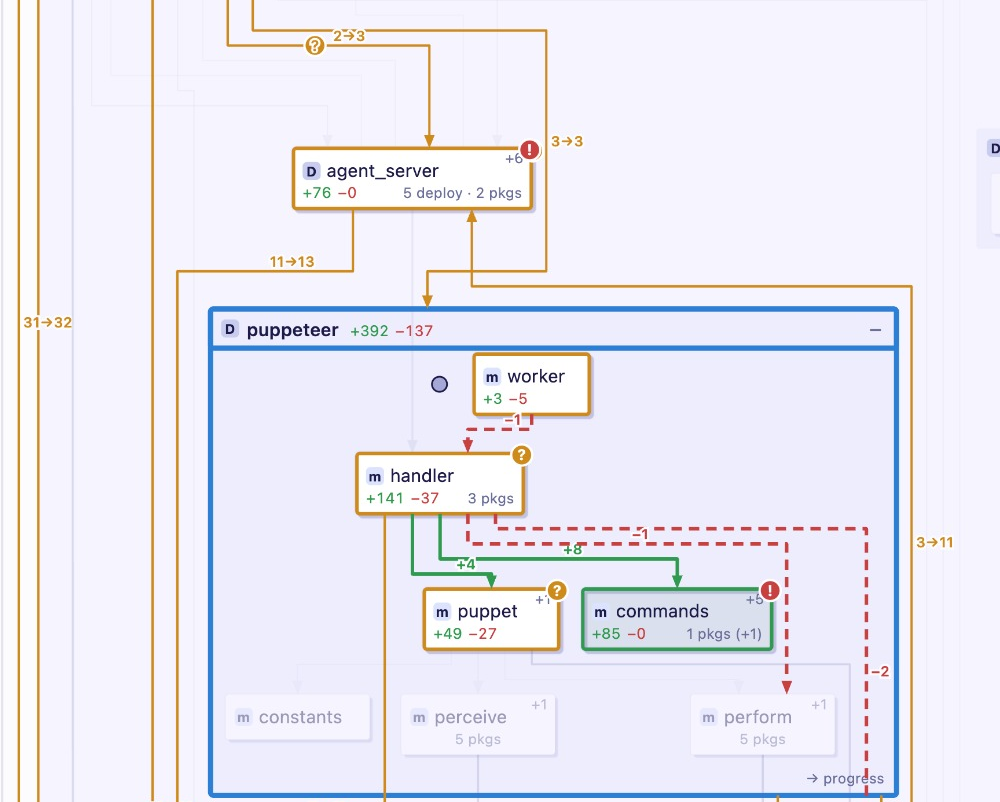
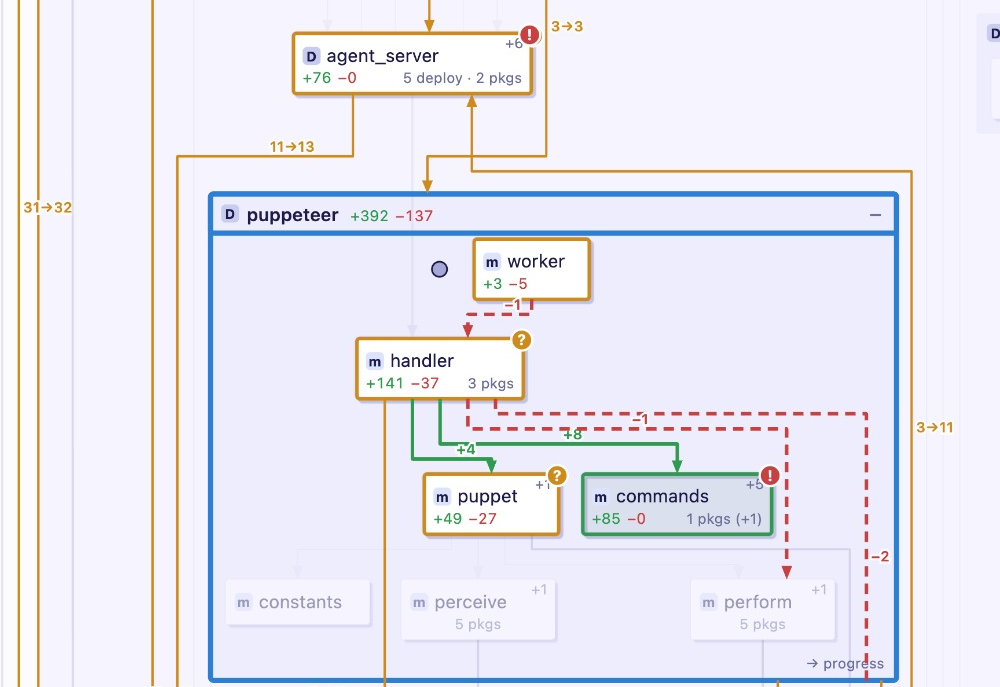
README: the name as a note under the first sentence; a lower screenshot after the commands

diff --git a/README.md b/README.md
@@ -4,7 +4,13 @@ Nolli draws a pull request as a change to a repository's architecture: the compo
 modules and classes it touches, the dependencies between them that it adds, removes or
 changes, and how much each one changed.
 
-![A pull request in Nolli's viewer: changed boxes and edges in orange, a removed dependency dashed red, verdict markers from a review agent](docs/review.png)
+> [!NOTE]
+> [Giambattista **Nolli**](https://en.wikipedia.org/wiki/Giambattista_Nolli), commissioned
+> by Pope Benedict XIV, surveyed Rome from 1736 and published his ichnographic plan of the
+> city in 1748, by far the most accurate map of Rome up to then. It draws buildings as
+> solid blocks but leaves enclosed public spaces open, the interiors of churches and
+> courtyards among them: the plan shows what is inside where it matters for moving through
+> the city.
 
 ## How to use
 
@@ -12,6 +18,8 @@ changes, and how much each one changed.
 nolli diff <repo> <base> <head> -o data/pr
 python viewer/serve.py --data data
 ```
+
+![A pull request in Nolli's viewer: changed boxes and edges in orange, a removed dependency dashed red, verdict markers from a review agent](docs/review.png)
 
 Open http://127.0.0.1:8720. `<base>` and `<head>` are any git revisions in `<repo>`
 (for a GitHub PR, `git fetch origin pull/48/head:pr-48` first). The repository is read
@@ -64,15 +72,6 @@ the code, and the same two commits always give the same picture.
 | Dockerfile | ![supported](https://img.shields.io/badge/supported-2ea44f) | which directories go into an image (`COPY`, `ADD`) and its entrypoint |
 
 Other languages show up as files and directories only.
-
-## The name
-
-[Giambattista **Nolli**](https://en.wikipedia.org/wiki/Giambattista_Nolli), commissioned
-by Pope Benedict XIV, surveyed Rome from 1736 and published his ichnographic plan of the
-city in 1748, by far the most accurate map of Rome up to then. It draws buildings as
-solid blocks but leaves enclosed public spaces open, the interiors of churches and
-courtyards among them: the plan shows what is inside where it matters for moving through
-the city.
 
 ## License
 
